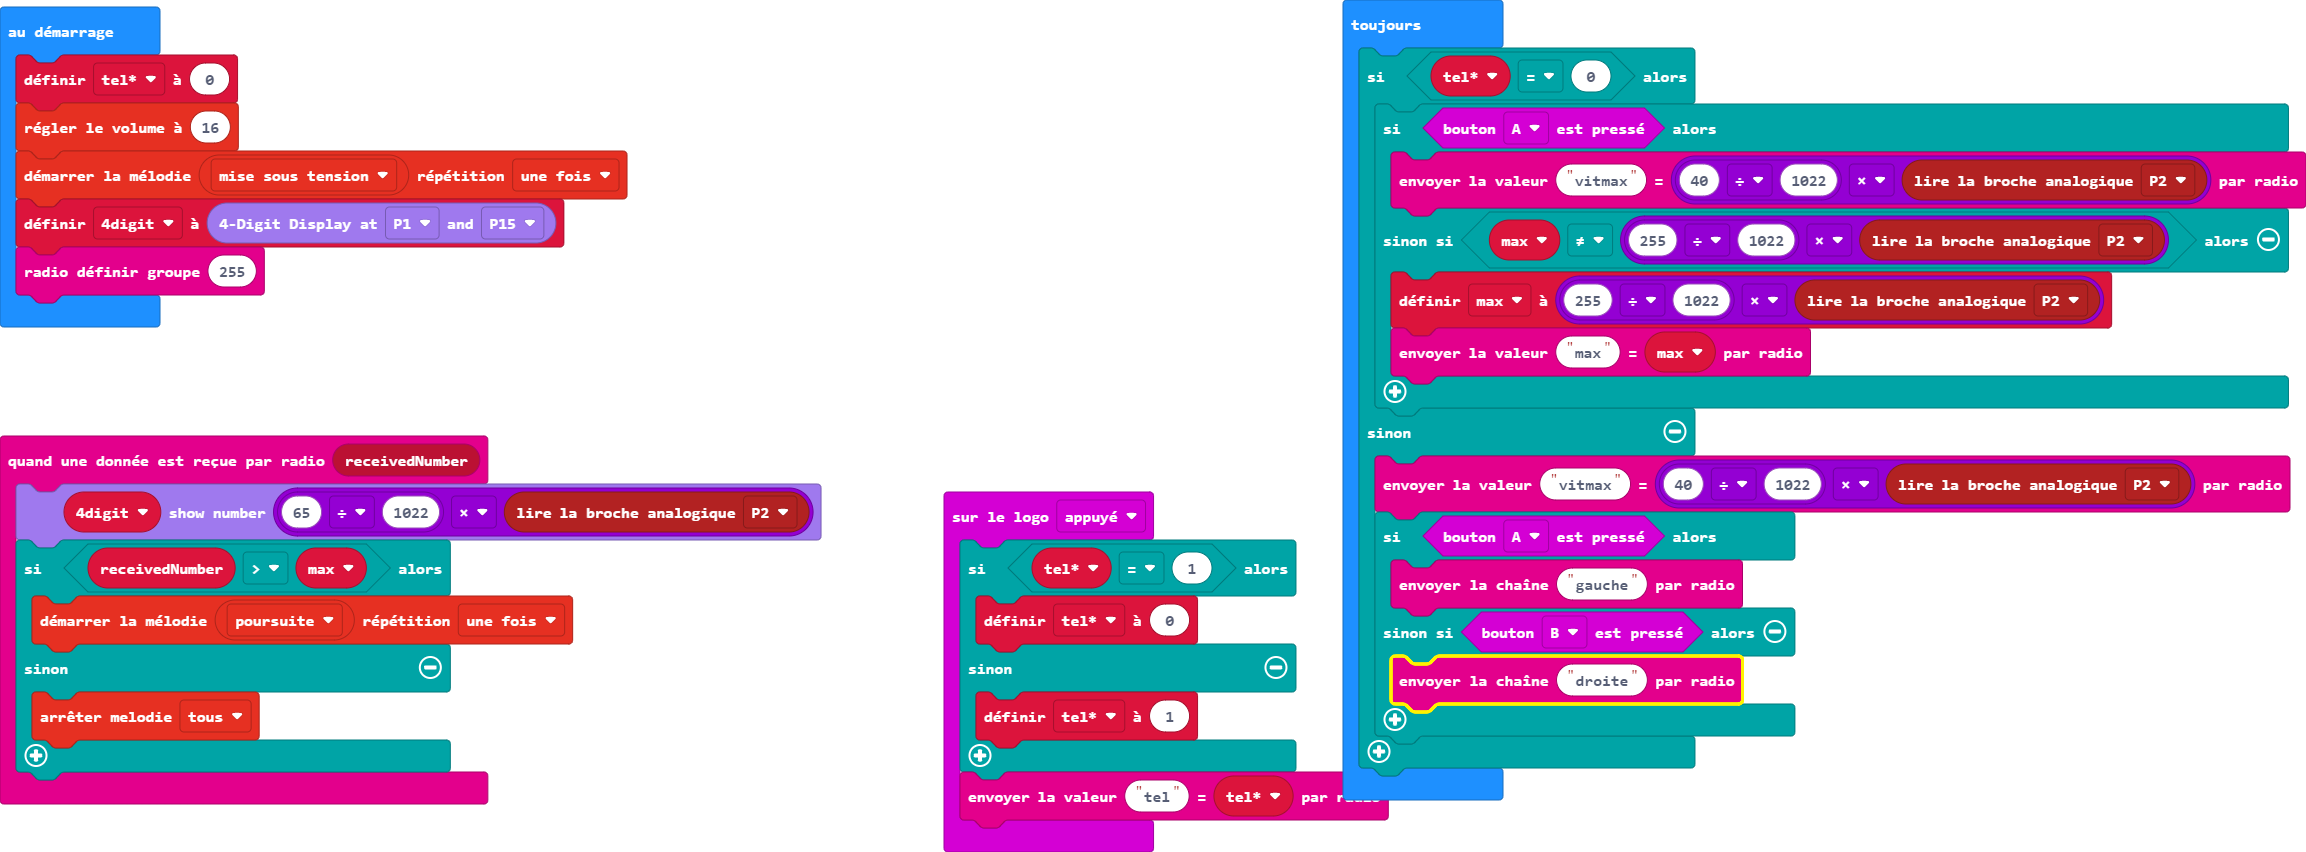
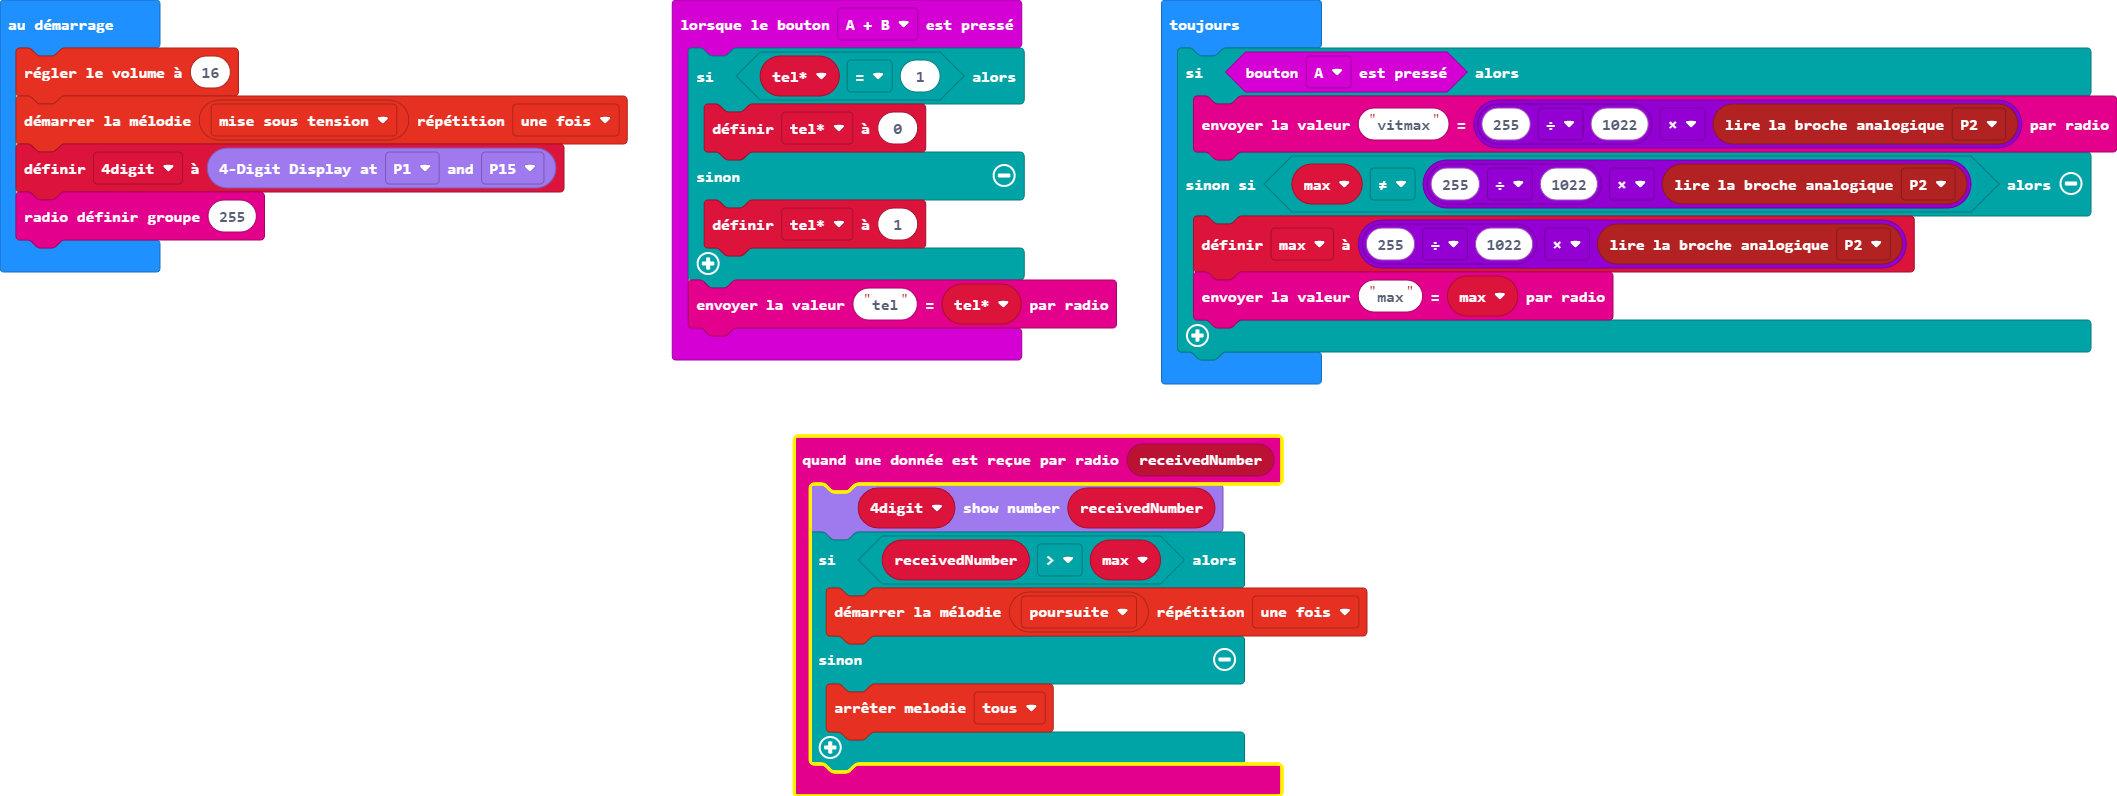
Restaurer '24/02/2023 09:33:59 rien du tout'

diff --git a/main.ts b/main.ts
@@ -1,12 +1,12 @@
 radio.onReceivedNumber(function (receivedNumber) {
-    _4digit.show(65 / 1022 * pins.analogReadPin(AnalogPin.P2))
+    _4digit.show(receivedNumber)
     if (receivedNumber > max) {
         music.startMelody(music.builtInMelody(Melodies.Chase), MelodyOptions.Once)
     } else {
         music.stopMelody(MelodyStopOptions.All)
     }
 })
-input.onLogoEvent(TouchButtonEvent.Pressed, function () {
+input.onButtonPressed(Button.AB, function () {
     if (tel == 1) {
         tel = 0
     } else {
@@ -14,28 +14,18 @@ input.onLogoEvent(TouchButtonEvent.Pressed, function () {
     }
     radio.sendValue("tel", tel)
 })
+let tel = 0
 let max = 0
 let _4digit: grove.TM1637 = null
-let tel = 0
-tel = 0
 music.setVolume(16)
 music.startMelody(music.builtInMelody(Melodies.PowerUp), MelodyOptions.Once)
 _4digit = grove.createDisplay(DigitalPin.P1, DigitalPin.P15)
 radio.setGroup(255)
 basic.forever(function () {
-    if (tel == 0) {
-        if (input.buttonIsPressed(Button.A)) {
-            radio.sendValue("vitmax", 40 / 1022 * pins.analogReadPin(AnalogPin.P2))
-        } else if (max != 255 / 1022 * pins.analogReadPin(AnalogPin.P2)) {
-            max = 255 / 1022 * pins.analogReadPin(AnalogPin.P2)
-            radio.sendValue("max", max)
-        }
-    } else {
-        radio.sendValue("vitmax", 40 / 1022 * pins.analogReadPin(AnalogPin.P2))
-        if (input.buttonIsPressed(Button.A)) {
-            radio.sendString("gauche")
-        } else if (input.buttonIsPressed(Button.B)) {
-            radio.sendString("droite")
-        }
+    if (input.buttonIsPressed(Button.A)) {
+        radio.sendValue("vitmax", 255 / 1022 * pins.analogReadPin(AnalogPin.P2))
+    } else if (max != 255 / 1022 * pins.analogReadPin(AnalogPin.P2)) {
+        max = 255 / 1022 * pins.analogReadPin(AnalogPin.P2)
+        radio.sendValue("max", max)
     }
 })
